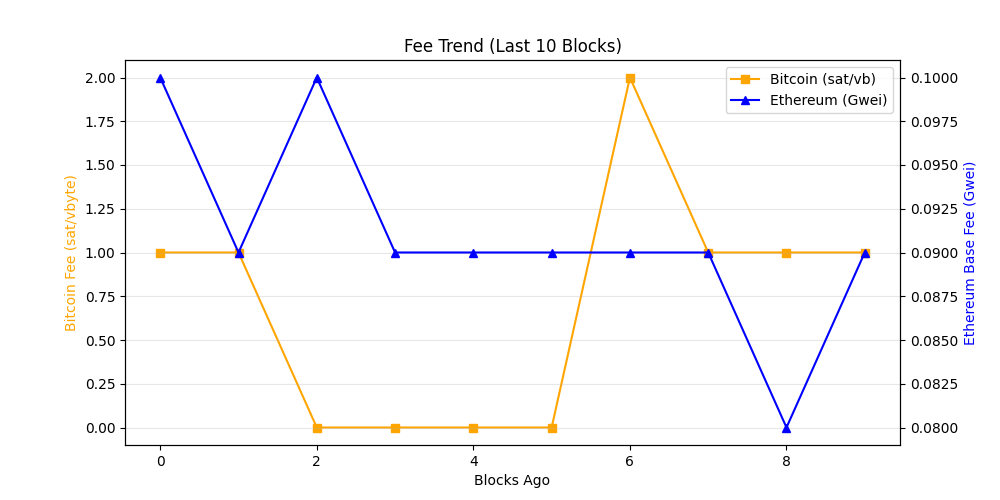
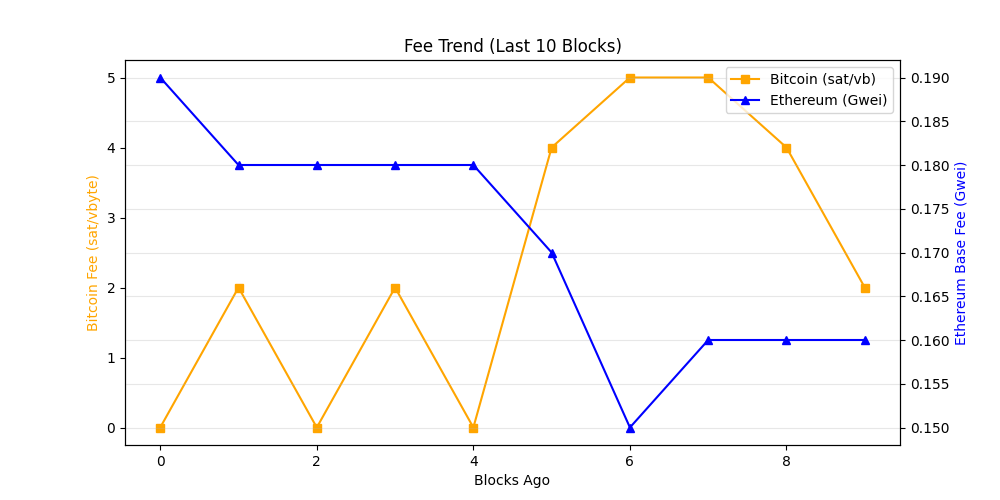
chore: update on-chain dashboard

diff --git a/README.md b/README.md
@@ -19,7 +19,7 @@ The README itself acts as the dashboard and is regenerated automatically on a 6 
 demonstrating a production-style, infrastructure-focused observability workflow rather
 than a traditional UI-driven approach.
 
-_Last updated: 2026-09-04 11:15 UTC_
+_Last updated: 2026-09-04 16:20 UTC_
 
 ## API Usage (GetBlock.io)
 - Calls used: **24**
@@ -27,8 +27,8 @@ _Last updated: 2026-09-04 11:15 UTC_
 ## Network Metrics
 | Chain | Block Height | TX Count | TPS (10 blk avg) | Block Util | Avg Fee |
 |------|-------------|----------|------------------|------------|---------|
-| Ethereum | 25903592 | 221 | 18.42 | 51.03% | 0.1 Gwei |
-| Bitcoin | 965469 | 6191 | 11.49 | 99.89% | N/A |
+| Ethereum | 25905107 | 205 | 17.08 | 37.53% | 0.2 Gwei |
+| Bitcoin | 965498 | 3635 | 5.37 | 99.8% | N/A |
 
 ## Visuals
 ### Transactions Trend
@@ -43,11 +43,11 @@ _Last updated: 2026-09-04 11:15 UTC_
 ## Whale Alerts (latest block)
 - Transaction hashes are truncated for readability.
 - Full hashes are available in `dashboards/metrics.json`
-- Bitcoin | 124.7 BTC | `c5963edf5f1f…`
-- Bitcoin | 121.7 BTC | `15d9f8d08b43…`
-- Bitcoin | 121.38 BTC | `d7d3da34f7bf…`
-- Bitcoin | 121.36 BTC | `042097678d72…`
-- Bitcoin | 403.84 BTC | `c42c81479d2a…`
+- Bitcoin | 381.02 BTC | `02b07b595f93…`
+- Bitcoin | 176.07 BTC | `ffd31298e871…`
+- Bitcoin | 146.04 BTC | `17a70101f495…`
+- Bitcoin | 1750.67 BTC | `ab6c52536d29…`
+- Bitcoin | 236.66 BTC | `568b7cd0e434…`
 
 ## Run locally
 
